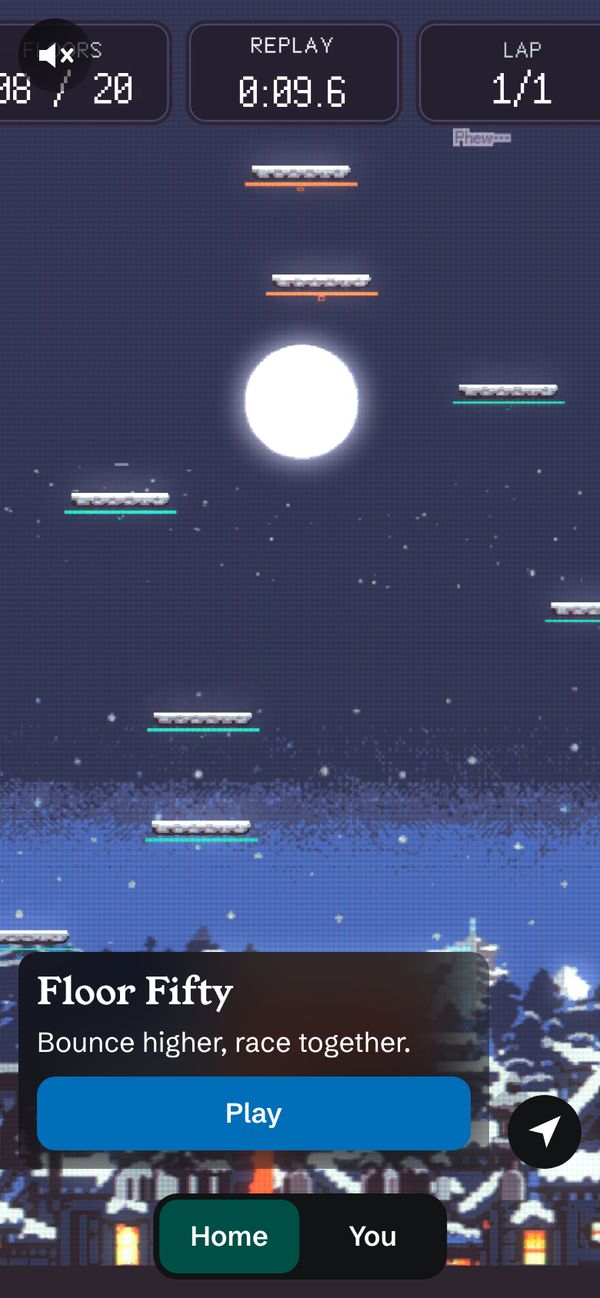
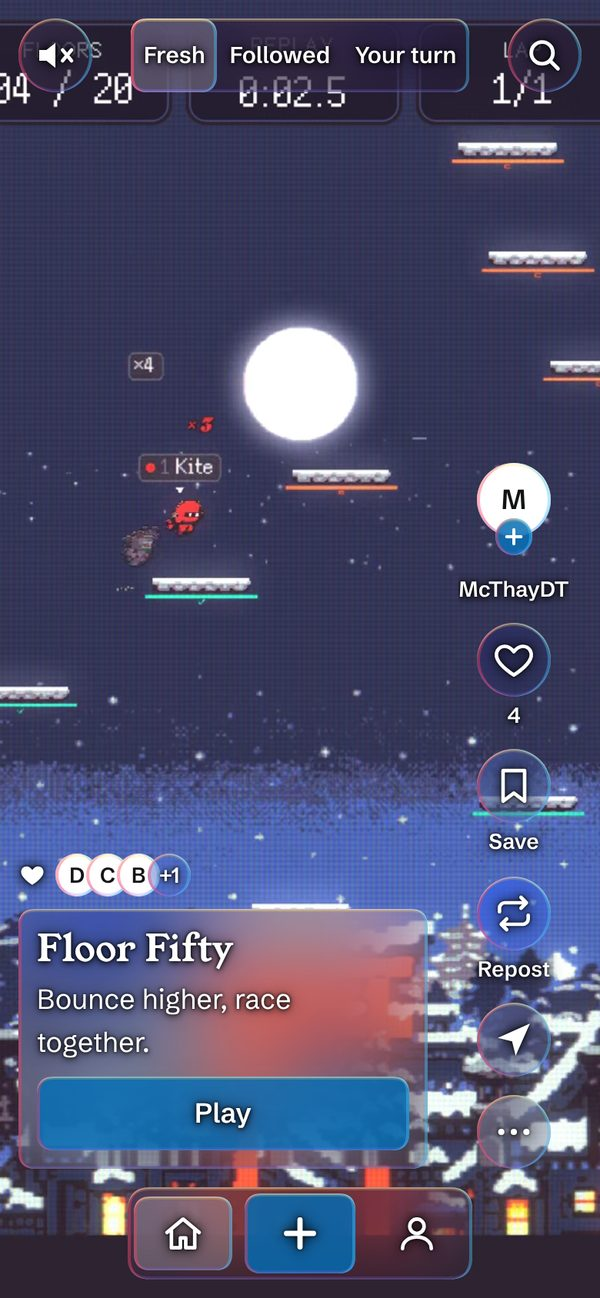
About page: photos of friends behind the closing cards, and today's feed in the phone
The two closing cards sit on the photos the owner picked (friends playing on their
phones, friends making a game together), lightly blurred so the people show; white
words keep at least 5.4:1 at 320x568, 375x667, 667x375 and 1280x720. The For players
phone shows today's feed: Fresh, Followed and Your turn, Like, Save and Repost,
friends' faces, and Floor Fifty's character in view.

diff --git a/src/routes/about/sections.ts b/src/routes/about/sections.ts
@@ -153,7 +153,7 @@ export const MORE: readonly Section[] = [
     links: [{ words: "Watch the feed", href: "/" }],
     picture: {
       src: "/about/feed.jpg",
-      alt: "The Ruken feed on a phone: a game playing, with its name and a Play button",
+      alt: "The Ruken feed on a phone: Floor Fifty playing, with its name, a Play button, Like, Save and Repost, and the faces of friends who liked it",
     },
   },
   {
@@ -181,13 +181,21 @@ export const SPLIT = {
 } as const;
 
 /** The two cards at the foot, one per audience, each with its one button. */
-/** Each closing card sits on a still from Floor Fifty, blurred and dimmed, as Live sits on its own clip. */
+/**
+ * Each closing card sits on a photo of friends doing what the card asks: playing on a phone together, and making a game
+ * together (the owner, 2026-11-28: "realistic but artistic like something from Soho House"; "one is someone working with
+ * friends, the other is someone playing on their phone with friends"). Made with fal.ai; the owner picked both.
+ */
 export const CLOSING: readonly { heading: string; button: Link; glow: string }[] = [
-  { heading: "Want to play?", button: { words: "Watch the feed", href: "/" }, glow: "/about/play-glow.jpg" },
+  {
+    heading: "Want to play?",
+    button: { words: "Watch the feed", href: "/" },
+    glow: "/about/friends-playing.jpg",
+  },
   {
     heading: "Made a game?",
     button: { words: "Put your game on Ruken", href: "/make" },
-    glow: "/about/make-glow.jpg",
+    glow: "/about/friends-making.jpg",
   },
 ];
 

diff --git a/src/lib/look.css b/src/lib/look.css
@@ -5593,9 +5593,9 @@ video[data-still][data-loading] {
   }
 }
 
-/* The closing cards sit on a still from Floor Fifty, blurred, dimmed and drifting very slowly, as Live sits on its own clip
-   (the owner, 2026-11-22: "a background image for these, dimmed, boked like how we do for Live", with "a very subtle
-   animation"). Both cards are dark then, so both take the dark card's words and buttons. */
+/* The closing cards sit on a photo of friends playing and making games together, dimmed and drifting very slowly (the
+   owner, 2026-11-22: "a background image for these, dimmed", with "a very subtle animation"; 2026-11-28: realistic photos
+   that show). The blur is light so the people read, and the dimming keeps the heading and button white on dark. Both cards are dark then, so both take the dark card's words and buttons. */
 .about .closing .card {
   position: relative;
   isolation: isolate;
@@ -5612,7 +5612,7 @@ video[data-still][data-loading] {
   width: calc(100% + 4rem);
   height: calc(100% + 4rem);
   object-fit: cover;
-  filter: blur(18px) brightness(0.55);
+  filter: blur(2px) brightness(0.55);
 }
 
 .about .closing .card .outline {

diff --git a/src/routes/about/+page.svelte b/src/routes/about/+page.svelte
@@ -207,7 +207,7 @@
   <div class="pair closing">
     {#each CLOSING as closing (closing.heading)}
       <section class="card">
-        <!-- A still from Floor Fifty behind the card, blurred, dimmed and drifting slowly: it only decorates. -->
+        <!-- A photo of friends behind the card, dimmed and drifting slowly: it only decorates. -->
         <img class="glow" use:loads src={closing.glow} alt="" aria-hidden="true" loading="lazy" />
         <h2>{closing.heading}</h2>
         <p><a class="button outline" href={closing.button.href}>{closing.button.words}</a></p>

diff --git a/docs/superpowers/live/claude-project-thread-rzplhb.md b/docs/superpowers/live/claude-project-thread-rzplhb.md
@@ -1,0 +1,7 @@
+# Live state: claude/project-thread-rzplhb
+
+- Task: about page art. Closing cards get the owner's picked fal.ai photos (Play C = friends on a sofa playing on phones, Make A = friends making a game at a library table); the For players phone picture becomes today's feed with Floor Fifty's character Kite in view.
+- Last commit: (this commit; see git log)
+- Next step: wait for an open PR slot (3 open at 04:39 UTC), push, open draft PR, fresh lane 2 review.
+- Open decisions: none.
+- Updated: 2026-11-28 04:39 UTC
